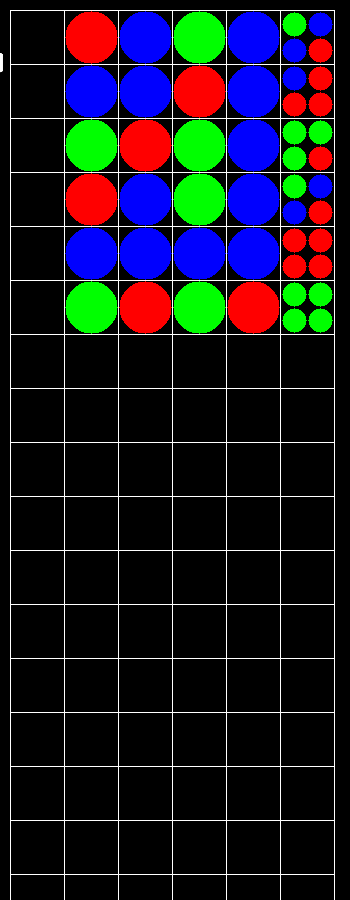
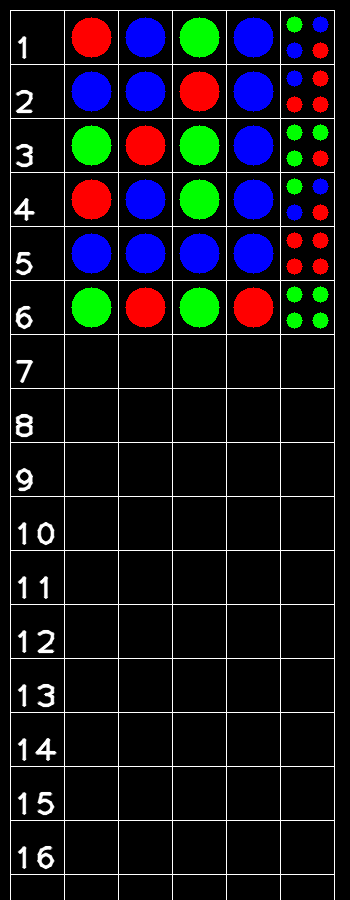
class for grid/guesses/evaluation works as intended

diff --git a/components.py b/components.py
@@ -208,9 +208,8 @@ class GuessGrid:
 
     def draw_guesses(self, img, guesses):
         for row in range(self.num_rows):
-            cv2.putText(img, str(row+1), (0, round(row+1*self.square_size)),
-                        round(self.fontScale), cv2.FONT_HERSHEY_SIMPLEX,
-                        (255, 255, 255), 2, cv2.LINE_AA)
+            cv2.putText(img, str(row+1), (round(0+(self.padding*1.3)), round(((row+1)*self.square_size)+(self.padding*0.5))),
+                        1, self.fontScale, (255, 255, 255), 2, cv2.LINE_AA)
             if len(guesses) <= row:
                 continue # or continue? break? 
             for col in range(1, self.num_columns-1):
@@ -218,7 +217,7 @@ class GuessGrid:
                     round((self.padding + (self.square_size*(col+1)))-self.square_size/2),
                     round((self.padding + (self.square_size*(row+1)))-self.square_size/2)
                           )
-                cv2.circle(img, center, round((self.square_size / 2) * 0.95),
+                cv2.circle(img, center, round((self.square_size / 2) * 0.75),
                            guesses[row][0][col-1][1][::-1], -1)
 
             center = (round(((self.square_size*self.num_columns)+self.padding)-(self.square_size/2)),
@@ -230,14 +229,10 @@ class GuessGrid:
                                                     ]
             for idx, location in enumerate(center_fourths):
                 color_bgr = (0, 0, 255)
-                print('....')
-                print(guesses[row][1])
                 if (len(guesses[row][1])-1) >= idx:
-                    print(guesses[row][1][idx])
                     color_bgr = (255*abs(guesses[row][1][idx]-1), 255*guesses[row][1][idx], 0)
-                print(color_bgr)
                 cv2.circle(img, (round(location[0]), round(location[1])),
-                           round((self.square_size/4)*0.9), color_bgr, -1)
+                           round((self.square_size/4)*0.6), color_bgr, -1)
         return img
 
 mock_correct = [['green', (0, 255, 0)], ['red', (255, 0, 0)], ['green', (0, 255, 0)], ['red', (255, 0, 0)]]
